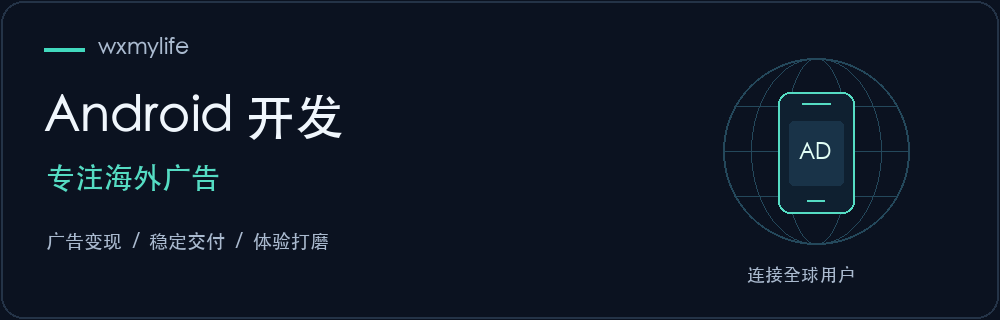
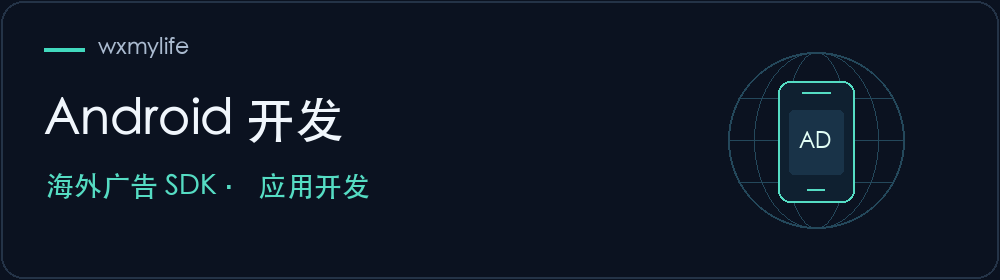
docs(profile): 精简为海外广告 SDK 与应用开发介绍

diff --git a/README.md b/README.md
@@ -1,21 +1,9 @@
 <p align="center">
-  <img src="./assets/profile-banner.gif" alt="wxmylife · Android 开发 · 专注海外广告，关注广告变现、稳定交付与体验打磨" width="1000" />
+  <img src="./assets/profile-banner.gif" alt="wxmylife · Android 开发 · 海外广告 SDK 与应用开发" width="1000" />
 </p>
 
-# 你好，我是 wxmylife
+## 你好，我是 wxmylife
 
-**海外广告方向 Android 开发者。** 关注广告变现与产品体验，也关心每一次请求背后的稳定性与效率。
+Android 开发，主要做海外广告相关的 SDK 和应用。
 
-### 关注方向
-
-- **海外广告**：广告接入、变现链路，以及广告展示与用户体验之间的平衡。
-- **Android 工程**：用 Kotlin / Java 构建易维护的客户端，关注架构、性能与稳定性。
-- **交互细节**：让状态反馈清晰、转场自然，让动效服务于操作与理解。
-
-### 开发理念
-
-先把业务边界想清楚，再把实现做简单。重视可读性、问题定位与持续交付，用细节打磨体验。
-
----
-
-欢迎交流 Android 开发、海外广告与客户端工程实践。
+常用 Kotlin、Java。欢迎交流 Android、广告 SDK 和应用开发。

diff --git a/assets/README.md b/assets/README.md
@@ -1,8 +1,8 @@
 # 主页视觉说明
 
-横幅围绕“海外广告方向 Android 开发”设计：深色底、薄荷绿强调色，手机与经纬线表达移动端与全球连接。两颗光点沿外围缓慢循环，避免文字闪烁或位移。
+横幅围绕“Android 开发、海外广告 SDK 与应用开发”设计：深色底、薄荷绿强调色，手机与经纬线表达移动端与全球连接。两颗光点沿外围缓慢循环，避免文字闪烁或位移。
 
-- `profile-banner.gif`：1000 × 320，64 帧，每帧 100 ms，6.4 秒循环；首帧包含完整信息。
+- `profile-banner.gif`：1000 × 280，64 帧，每帧 100 ms，6.4 秒循环；首帧包含完整信息。
 - `profile-banner.png`：同尺寸静态版本，作为静态备用素材。
 - README 保留独立文字介绍与图片替代文本，图片未加载时仍能理解主页定位。
 - 图片随仓库托管，无第三方图片接口、统计卡片或定时工作流依赖。
